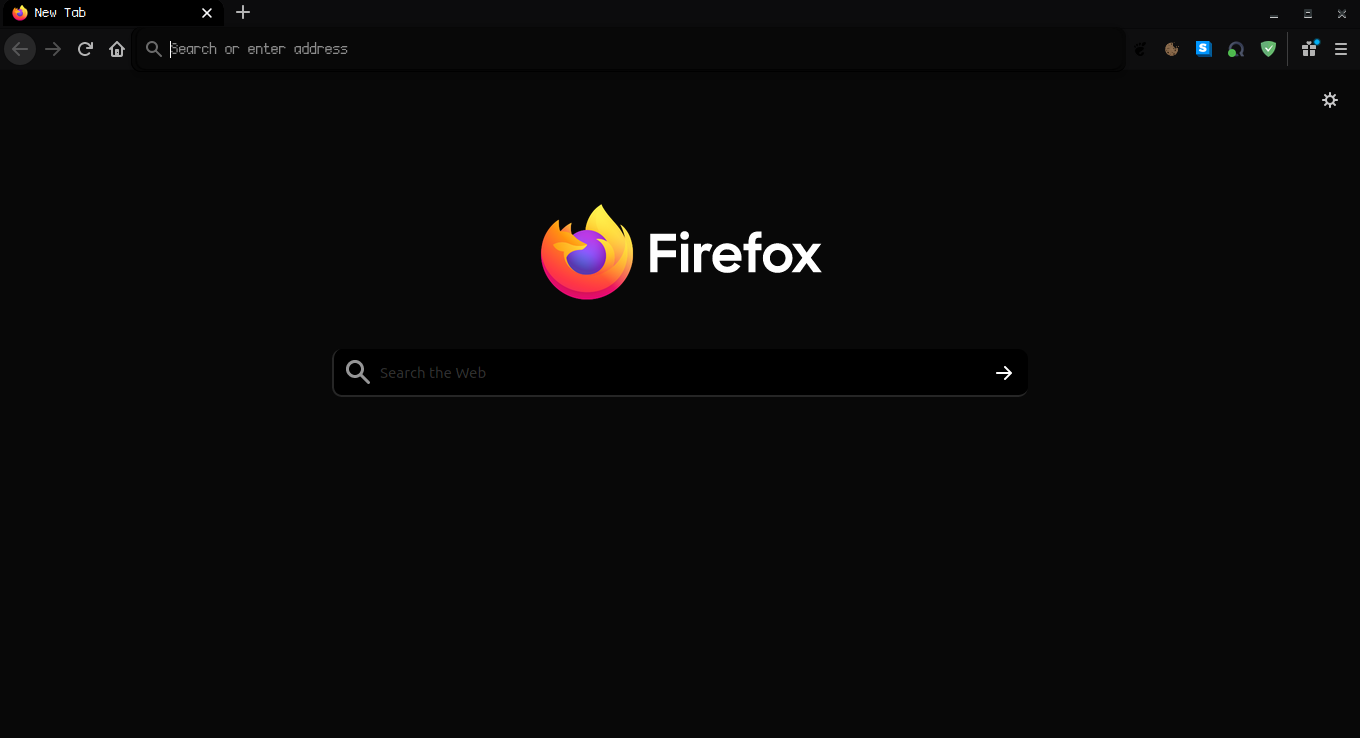
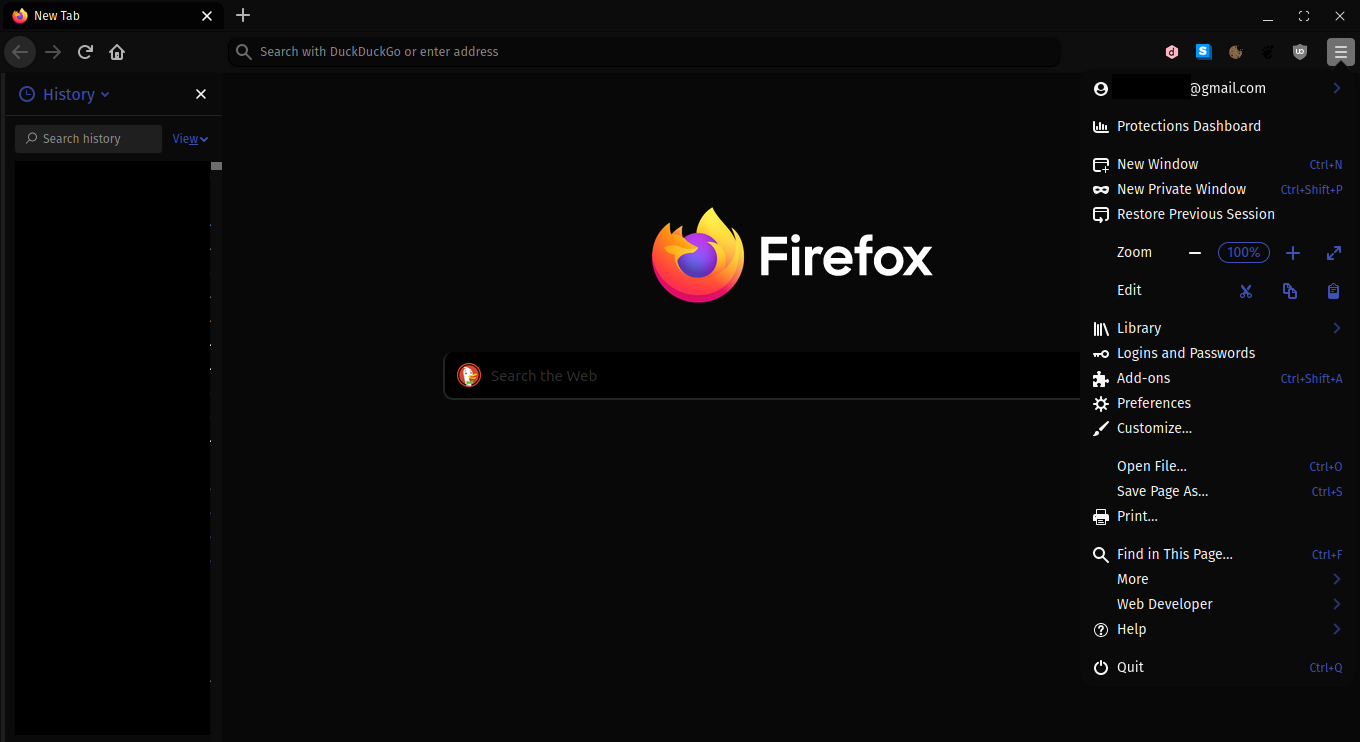
Darkened the about: sites

diff --git a/userChrome.css b/userChrome.css
@@ -27,8 +27,8 @@
 #TabsToolbar .tabbrowser-tab .tab-stack,
 #TabsToolbar .tabbrowser-tab .tab-background,
 #TabsToolbar .tabbrowser-tab .tab-content {
-	border-top-left-radius: 10px !important;
-	border-top-right-radius: 10px !important;
+	border-top-left-radius: 7px !important;
+	border-top-right-radius: 7px !important;
 	margin-top: 1px;
 	border: none !important;
 	margin: 1px !important;
@@ -39,7 +39,7 @@
 }
 
 .tab-content[selected="true"] {
-	background: #000000 !important;
+	background: #030303 !important;
 }
 
 .tab-content[selected="false"] {
@@ -67,18 +67,6 @@
 .searchbar-textbox{
     border-color: #000000 !important;
     border-width: 2px !important;
-}
-
-menupopup {
-    background-color: #000000 !important;
-}
-
-menuitem > .menu-text, menuitem > .menu-iconic-text {
-    color: white !important;
-}
-
-menuitem, menu {
-    color: white !important;
 }
 
 /*----------------------hamburger menu-----------------------------*/

diff --git a/userContent.css b/userContent.css
@@ -1,8 +1,12 @@
 
 /* Edit normal homepage*/
-@-moz-document url("about:home"),url("about:blank"),url("about:newtab"){
+@-moz-document url("about:home"),url("about:blank"),url("about:newtab"),url("about:preferences"),url("about:config"){
   html:not(#ublock0-epicker), html:not(#ublock0-epicker) body, #newtab-customize-overlay {
       background-color: #080808 !important; /*#232324*/
+}
+
+.sticky-container {
+    background-color: #080808 !important;
 }
 
 /* Search bar in the middle of the screen */
